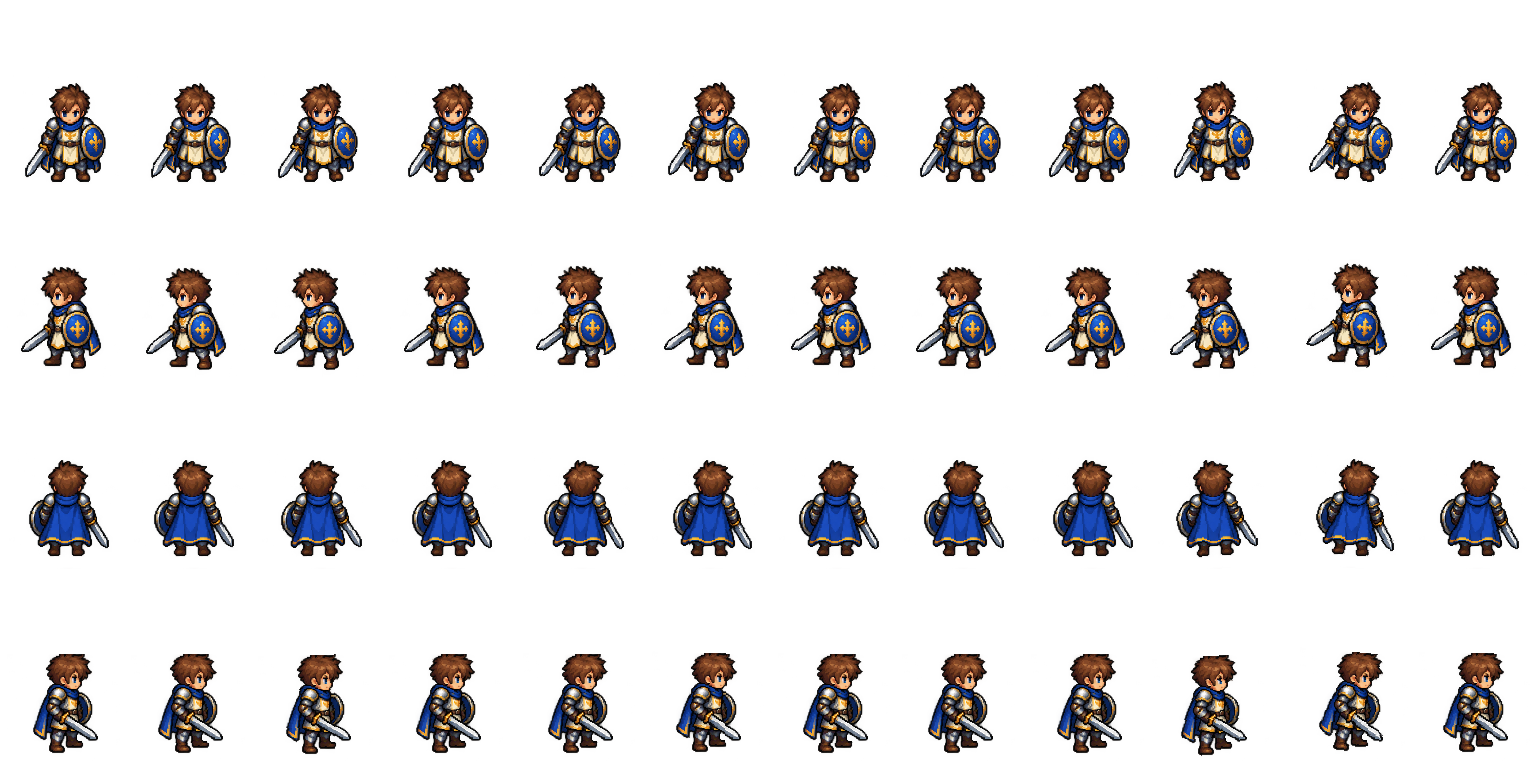
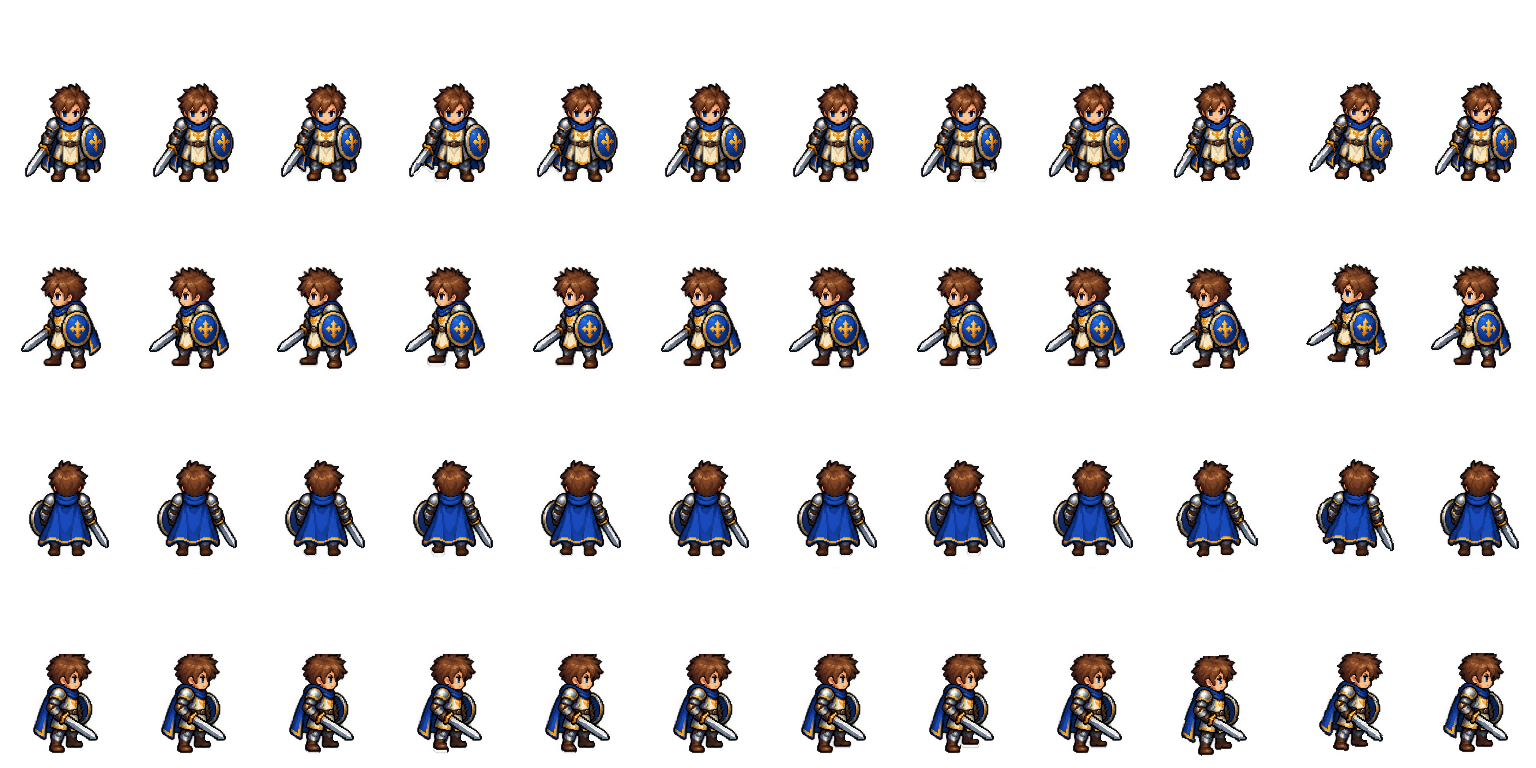
.

diff --git a/public/chars.js b/public/chars.js
@@ -1,7 +1,7 @@
 // Personagens em camadas (paper doll) a partir das folhas PNG geradas — As Aventuras do Piper
 const CHARS = (function () {
   const D = DEFS, SHEETS = {}, ANIMATIONS = {}, cache = new Map();
-  const ASSET_REV = 'motion-pixel-actions-3';
+  const ASSET_REV = 'motion-pixel-actions-4';
   let CW = 128, CH = 192, ready = false;
 
   async function load(onProgress) {

diff --git a/tools/build_generated_sprites.py b/tools/build_generated_sprites.py
@@ -54,13 +54,13 @@ def write_character_motion(rows, destination):
     # poses partem agora da mesma silhueta base de cada direção.
     poses = (
         (0, 1.00, 1.00, 0, 0, 0),
-        (0, 1.00, 1.00, -3, 0, 0.8),
-        (0, 1.00, 1.00, -4, 0, 1.5),
-        (0, 1.00, 1.00, -1, 0, 0.6),
-        (0, 1.00, 1.00, 3, 0, -0.8),
-        (0, 1.00, 1.00, 4, 0, -1.6),
-        (0, 1.00, 1.00, 2, 0, -0.8),
-        (0, 1.00, 1.00, -1, 0, 0.3),
+        (0, 1.00, 1.00, 0, 0, 0),
+        (0, 1.00, 1.00, 0, 0, 0),
+        (0, 1.00, 1.00, 0, 0, 0),
+        (0, 1.00, 1.00, 0, 0, 0),
+        (0, 1.00, 1.00, 0, 0, 0),
+        (0, 1.00, 1.00, 0, 0, 0),
+        (0, 1.00, 1.00, 0, 0, 0),
         (0, 1.00, 1.00, 0, 0, 0),
         (0, 1.00, 1.00, -5, 0, 3.0),
         (0, 1.00, 1.00, 8, 0, -5.0),
@@ -69,11 +69,33 @@ def write_character_motion(rows, destination):
     for row, cells in enumerate(rows):
         for frame, (source, sx, sy, dx, dy, angle) in enumerate(poses):
             pose = motion_pose(cells[source], sx, sy, dx, dy, angle, 128, 192, 185)
-            # A oscilação do corpo já dá leitura de passada. O recorte de
-            # pernas só é seguro quando a arte vem em camadas; nesta folha ele
-            # cortava capas e armas em alguns ângulos, então não é aplicado.
+            if 1 <= frame <= 8:
+                # Apenas os pés alternam. Corpo, capa, arma e escudo ficam
+                # ancorados, evitando o tremor que o deslocamento da figura
+                # inteira causava durante a caminhada.
+                pose = step_feet(pose, frame, 185)
             output.alpha_composite(pose, (frame * 128, row * 192))
     output.save(destination, optimize=True)
+
+
+def step_feet(frame, phase, ground):
+    """Ergue um dos pés por vez, sem deformar a silhueta completa."""
+    # primeira metade do ciclo: pé esquerdo; segunda: direito. O recorte fica
+    # abaixo da canela, portanto nunca alcança arma, escudo ou capa alta.
+    lift = (0, 1, 3, 1, 0, 1, 3, 1)[phase - 1]
+    if not lift:
+        return frame
+    left = phase <= 4
+    x0, x1 = (30, 63) if left else (64, 98)
+    y0 = ground - 19
+    part = frame.crop((x0, y0, x1, ground + 1))
+    alpha = part.getchannel('A')
+    if not alpha.getbbox():
+        return frame
+    out = frame.copy()
+    out.paste((0, 0, 0, 0), (x0, y0, x1, ground + 1), alpha)
+    out.alpha_composite(part, (x0, y0 - lift))
+    return out
 
 
 def export_main_action_sheets():
